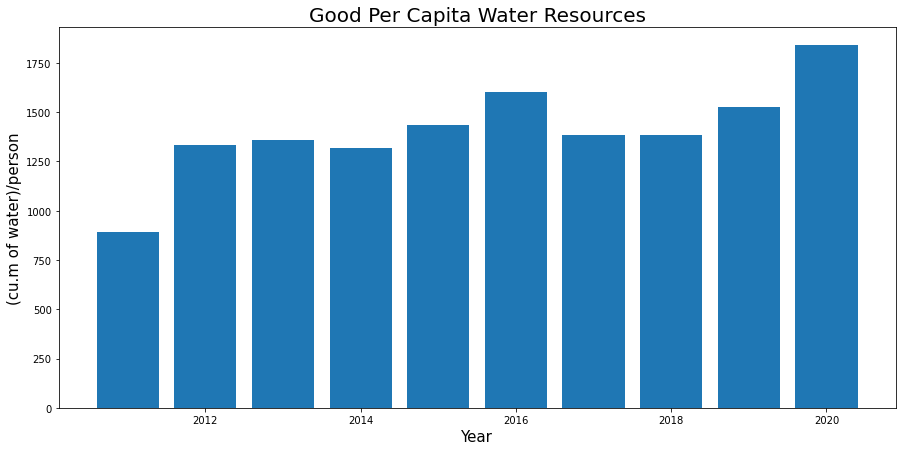
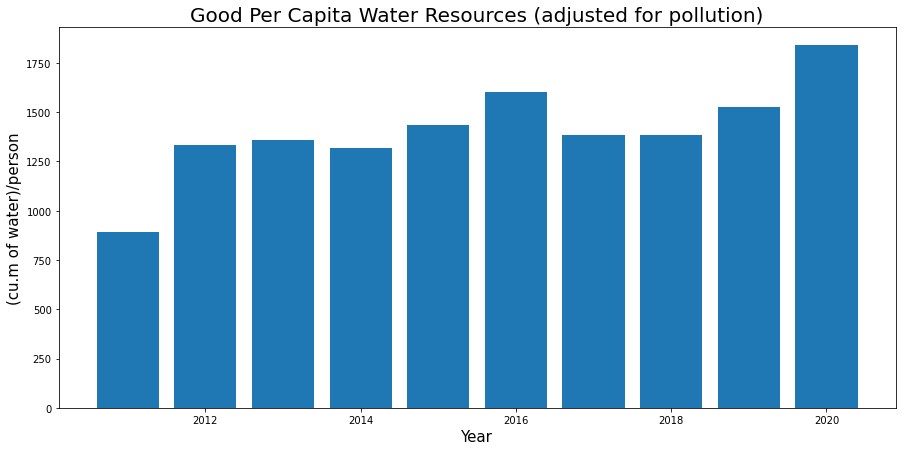
I think a draft is just about ready

Changed region(s): [[0.2173, 0.0, 0.8381, 0.0621]]

diff --git a/china_water_problem_data/post/chain_water.md b/china_water_problem_data/post/chain_water.md
@@ -45,22 +45,26 @@ From the [CWR](https://www.chinawaterrisk.org/) the definition of water grades:
 * Grade V+: not suitable for any use
 
 ![](images/key_lekes_and_reservoirs_water_quality.png)
+[Source](https://www.chinawaterrisk.org/resources/analysis-reviews/2020-state-of-ecology-environment-report-review/)
 
 ![](images/main_rivers_basins_water_quality.png)
+[Source](https://www.chinawaterrisk.org/resources/analysis-reviews/2020-state-of-ecology-environment-report-review/)
 
 Lake, Reservoirs, River river basins have all had significant improvements in the pollution levels. The amount of water that qualifies for domestic use increased 30-40% and continue to head in  a good direction.
 
 ![](images/groundwater_and_shallow_groundwater_quality.png)
+[Source](https://www.chinawaterrisk.org/resources/analysis-reviews/2020-state-of-ecology-environment-report-review/)
 
 The groundwater has continued to deteriorate in quality even given the policy focused on reducing water pollution. There are many potential reasons why groundwater quality may be deteriorating, even despite policy efforts to reduce water pollution. Possible reasons include:
 
-* Groundwater recharge areas are being polluted, for example from agricultural or industrial runoff;
-* Groundwater is becoming contaminated from septic tanks or other sources of wastewater;
+* Groundwater recharge areas are being polluted, for example from agricultural or industrial runoff.
+* Groundwater is becoming contaminated from septic tanks or other sources of wastewater.
 * Excessive pumping of groundwater can lower groundwater levels and increase the chances that pollutants will come into contact with water sources.
 
-How much does addressing water pollution help China with water scarcity? We can use the water quality metrics to adjust the water resources per capita numbers into good water per capita. Recall from earlier that China has 2,029m³ per capita.
-
 ![](images/per_capita_water_resources.png)
+[Source](http://www.stats.gov.cn/tjsj/ndsj/2021/indexeh.htm)
+
+How much does addressing water pollution help China with water scarcity? We can use the water quality metrics to adjust the water resources per capita numbers into good water per capita. Recall from earlier that China has 2,029m³ per capita.
 
 2,029m³ per capita is above the accepted definition of water scarcity.
 
@@ -68,40 +72,60 @@ How much does addressing water pollution help China with water scarcity? We can 
 * Water scarcity 1,000m³
 * Water acute scarcity 500m³
 
-Based only on this number China water scarcity looks pretty good. Now let's consider the water resources adjusted for pollution.
+Based only on the total water resources per capita China looks to be in a spot. Now let's consider the water resources adjusted for pollution.
 
 ![](images/good_per_capita_water_resources.png)
+[Source 1](http://www.stats.gov.cn/tjsj/ndsj/2021/indexeh.htm) -- [Source 2](https://www.chinawaterrisk.org/resources/analysis-reviews/2020-state-of-ecology-environment-report-review/)
 
-Now we get a very different picture of actual available water per capita. In 2011 water resources per capita were approaching actual scarcity. The clean-up of the pollution has broth water resource from actual scarcity above water stress levels. This delivers a very good improvement in water scarcity just from addressing pollution.
+Now we have a more informed picture of actual available water per capita. In 2011 water resources per capita were approaching actual scarcity. The clean-up of the pollution has brought water resource from actual scarcity to above water stress levels. A very good improvement in water scarcity just from addressing pollution.
 
 It is important to realize that this water is not located where it is needed, so people living in the big Northern cities like Beijing are still experiencing actual water scarcity, with water resources per capita in 2020 at 117.8m³. Tianjin is the worst, 96m³ per capita in water resources. On the other hand, Jiangxi, which is further south, has 3,731m³ per capita. Yet the economic forces keep people moving to industrialized northern city regardless of the poor stands of living.
+
+China has simultaneously increased the number of people with access to freshwater while decreasing the usage of the water.
+
+![](images/per_capita_water_use.png)
+[Source](http://www.stats.gov.cn/tjsj/ndsj/2021/indexeh.htm)
 
 ### 2: The North to South Water Diversion Project
 
 ![](images/HigkygnaHH.png)
+[Source](http://www.china.org.cn/china/2016-11/29/content_39810706_11.htm)
 
 Speaking of water not being located where it is needed and the big northern cities, this is a good time to briefly bring up the South to North water diversion project. The South to North water diversion project was conceived in 1952, after Mao Zedong said "Water in the south is abundant, water in the north scarce. If possible, it would be fine to borrow a little.". Mao Zedong, the man who is the architect of the world's deadliest famine, partly due to the unproven agricultural practices he forced farmers to adopt as part of his Great Leap Forward. As Moa indicated, 80% of the water in China is located in the south while the greater part of the population lives in the north. The industrialization of China has only increased the trend of people moving from the west of China to large Eastern cities, such as Beijing. The growing population in the North-East parts of China has exacerbated the lack of water. This lack has led to the world's largest water relocation project in history. If completed the project would divert ~45 billion m³ of water annually from four major rivers: Yangtze, Yellow River, Huaihe, and Haihe. From 2014 to 2021 the project has diverted ~50 billion m³ of water, supplying 70-80% of the water consumed in Beijing and the neighboring provinces. This has allowed Bejing to continue to grow and increase production, but as just discussed, in Beijing water per capita is still in the actual water sacristy levels. Even efforts at this scale can not keep up with the growing population and increasing demand for industrial processes. The project is expected to take another 40-50 years to complete. Diverting water is costly, estimated to cost 500 billion yuan (~80 billion U.S. dollars). Given the current multi-trillion scope of government spending, this no longer seems like that much money. It's not clear the South to North water diversion project was a good choice, but it demonstrates the extent that China is willing to go.
 
 ## Section Title
 
-So far we have discussed major initiatives that China has done to deal with water scarcity. Yet even as they make more water resources available, they consume them in the creation of continuous growth. China is the world’s second largest user of water resources behind India.
+So far we have discussed major initiatives that China has done to deal with water scarcity. We have not even touch on some of the major efforts to collect more water such as Sponge Cities reusing 70% of rain water or Cloud Seeding ([Katja Friedrich Professor at University of Colorado Boulder](https://www.pnas.org/content/117/10/5190)). Yet even as they make more water resources available, they consume them in the creation of continuous growth. This has lead China to become the world’s second largest user of water resources behind India and second largest economy.
 
 ![](images/total_water_withdrawals_by_county.png)
+[Source](https://ourworldindata.org/water-use-stress)
 
-China has exerted enormous efforts to improve the quality and availability of water. Alongside these efforts, China has created policies to reduce the usage of water. [China Water Conservation Project](https://en.ndrc.gov.cn/policies/202105/t20210521_1280514.html)
+What is China using this incredible amount of water for? Agriculture 63%, industrial 22%, and humans 14%.
+
+Agriculture is discordant in China. As the greatest consumer of water, it has been a major focus of the policies attempting to reduce water consumption. Simultaneously, China holds the mandate to be self-sufficient in energy, food, and minerals. Beyond, self-sufficiency they have been growing tremendously on the global stage pushing to increase exports. China is the world's large exporter of many agricultural products: Wheat, Rice, Cotton, Lettuce, Green Beans, Potatoes, Spinach, Pumpkin, Squash, Sweet Potatoes, Pears Grapes, Peaches, Apples, Pork, Lamb, Goats, Ducks, and a whole lot more. Given conflicting objectives agriculture is in the firing line.
+
+Alongside the conflicting objectives around agriculture sites the fact that agriculture is a major source of water pollution. The pesticides and fertilizers run off the crops into bodies of water, polluting and changing the ecology. Agricultural pollution is rampant worldwide, showing up with many varied second-order effects. An interesting example [Amazon destruction linked to the largest belt of algae on the planet](https://www.nola.com/news/environment/article_8f73ac64-8916-11eb-8ca1-2b9612ea17ff.html).
 
 ![](images/water_use_by_segment.png)
+[Source](http://www.stats.gov.cn/tjsj/ndsj/2021/indexeh.htm)
 
-Agriculture is the largest use of water in China, so not surprisingly a lot of the policy has centered around Agriculture. The policy has included changes in water arrogation technology, increasing the number of water-efficient crops, decreasing the number of areas zoned for agriculture, and much more.
+Chinas agriculture regulation has caused shifts in what types of crops are being grown. Focusing on higher profit lower water consumption. The farming practices are also being changed to reduce wasteful uses of water. Land near important sources of water is no longer being used for agriculture to reduce the effects of pesticides and fertilizer runoff. Alongside the rezoning of agricultural land, the amount of arable in China is decreasing due to soil destruction, from unsustainable farming practices. Soil destruction is a global problem, Dirt: The Erosion of Civilizations is a great book on the subject. This has forced China to grow crops further from water sources exasperating water shortages for agriculture production. Yet given all these changes China has been successful at slightly decreasing overall agricultural water usage while increasing agricultural profit internally and from exports.
 
-Policies have also been put in place to decreases industrial water usage. Industrial water usage includes power generation. One extremely prominent policy was banning Bitcoin mining in China. Mining BTC was estimated to consume 1% of China's electricity. Electricity production uses a lot of water, a coal-fired power plant uses about 12 million gallons of water per hour. This does not include the water used for the "Coal Washing" part of the mining process of coal. Nuclear power plants use smiler qualities of water in the production of electricity to coal-fired power plants. The scarcity of water in China has caused a scarcity of electricity forcing China to implement policies that limit the use of electricity. The limitations on power and water usage have had impacts on Chinas industry. China has halted the production of key suppliers to Apple and Tesla until they were able to decreases the power requirement of manufacturing. The halts incurred stalls in the manufacturing of Apple and Tesla due to the lack of supplies. Given the high visibility of affecting Apple and Tesla, these were not the first manufacturers to have electrical power efficiency requirements placed open them.
+![](images/china_corn_map.png)
 
-China has simultaneously increased the number of people with access to freshwater while decreasing the usage of the water.
+Electricity the lifeblood of modern civilizations and consumer of water. So much of modern life comes down to energy. Yet the production of energy in almost any form consumes large amounts of water. In China, most of the electricity is produced by col poser plants. Using on average 12 million gallons of water per hour. This does not include the water used for the "Coal Washing" part of the mining process of coal.  Electricity production along mining or the two big drivers of water usage in the industrial segment. This has led China to take some drastic measures around Electricity usage. One extremely prominent policy was banning Bitcoin mining in China. Mining BTC was estimated to consume 1% of China's electricity.
 
-![](images/per_capita_water_use.png)
+![](images/China-electricity-prod-source-stacked.png)
 
-By the end of 2019, "more than 40,000 projects had been implemented as part of efforts to build sponge cities, utilizing 350 million tonnes of rainwater annually." [http://www.xinhuanet.com/english/2021-05/13/c_139943703.htm]
+The scarcity of water in China has caused a scarcity of electricity forcing China to implement policies that limit the use of electricity. The limitations on power and water usage have had impacts on Chinas industry. China has halted the production of key suppliers to Apple and Tesla until they were able to decreases the power requirement of manufacturing. The halts incurred stalls in the manufacturing of Apple and Tesla due to the lack of supplies. Given the high visibility of affecting Apple and Tesla, these were not the first manufacturers to have electrical power efficiency requirements placed open them.
 
-Dams
+China is the leading producer of hydropower. Having the world's largest hydro dam, The Three Gorges Dam and plan to build an even larger dam. Hydropower has downsides:
 
-Water is a constraint on China, and a constraint on the world
+* Highly variable based on wet and dry seasons.
+* Building new dams have large and unpredictable environmental changes
+* Often the dams are not near population centers, requiring long-distance and expensive transmission
+* Policy sensitive, due to the downstream effects in other countries from building a dam
+
+Nuclear power plants are frequently brought up, but use smiler qualities of water in the production of electricity to coal-fired power plants.
+
+Water is essential to life and constraints on water availability quickly turn into contrarians on life. China has been dealing with water scarcity for decades and all the doom and gloom predictions have not come to fruition. We have barely scratched the surface of water in China let alone the global implications. Time and time again China has adopted massive changes to address whatever challenge is impeding growth. Sometimes with incredible costs: environmental, monetary, and the very lives of the Chinese people. There is a theoretical concentrate that China and all grow-or-die economies will hit, I don't know if that is in 10 or 1000 years. But continued growth will fail one day, maybe because of water or one of the enumerable other intertangled possibilities. Yet be careful when you bet against China, they have done the impossible many time, ignoring all costs.
